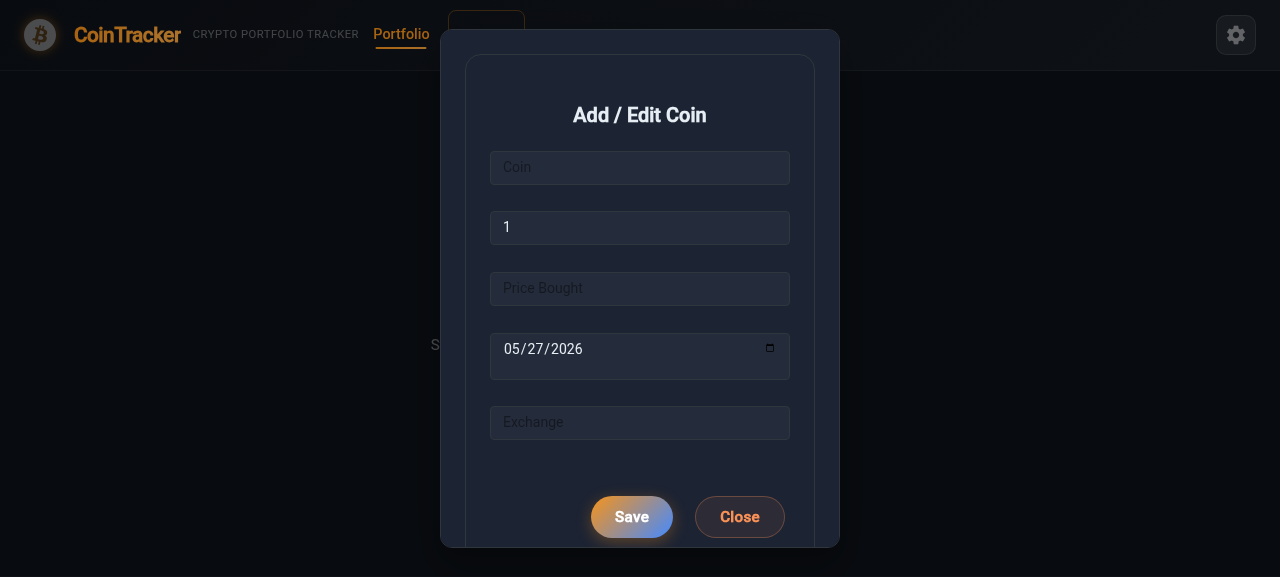
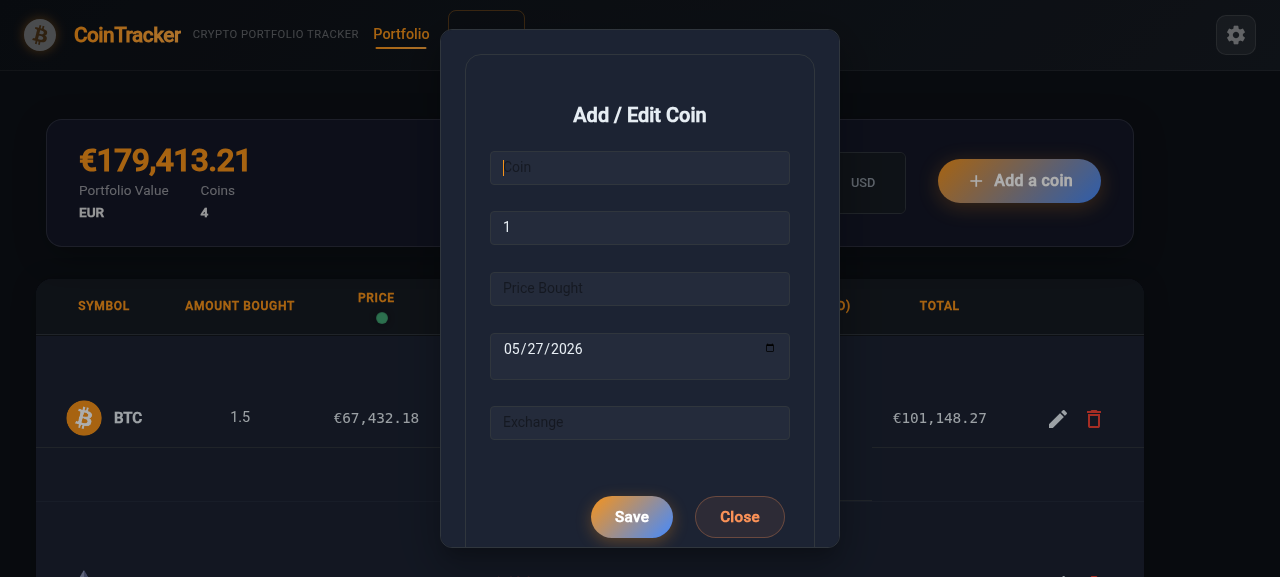
docs: add portfolio dashboard and add-coin screenshots to README

diff --git a/README.md b/README.md
@@ -27,20 +27,20 @@
 
 ## 📸 Screenshots
 
-### Login Page
-![Login page with dark glassmorphism card](screenshots/login.png)
-
-*Clean glassmorphism card with Google Sign-In and MetaMask Connect Wallet buttons*
-
 ### Portfolio Dashboard
-![Portfolio dashboard with crypto holdings](screenshots/portfolio-empty.png)
+![Portfolio dashboard with crypto table and 7-day graphs](screenshots/portfolio-dashboard.png)
 
-*Real-time portfolio tracker with live CoinGecko prices, 7-day sparkline charts, and 24h change indicators*
+*Live portfolio with sortable table, CoinGecko prices, 24h change indicators, 7-day sparkline graphs, and paginator*
 
 ### Add Coin Dialog
 ![Add coin form dialog](screenshots/add-coin.png)
 
 *Add coins with symbol auto-complete, amount, price, date picker, and exchange fields*
+
+### Login Page
+![Login page with dark glassmorphism card](screenshots/login.png)
+
+*Clean glassmorphism card with Google Sign-In and MetaMask Connect Wallet buttons*
 
 ### 404 Page
 ![404 page with animated floating number](screenshots/404.png)
